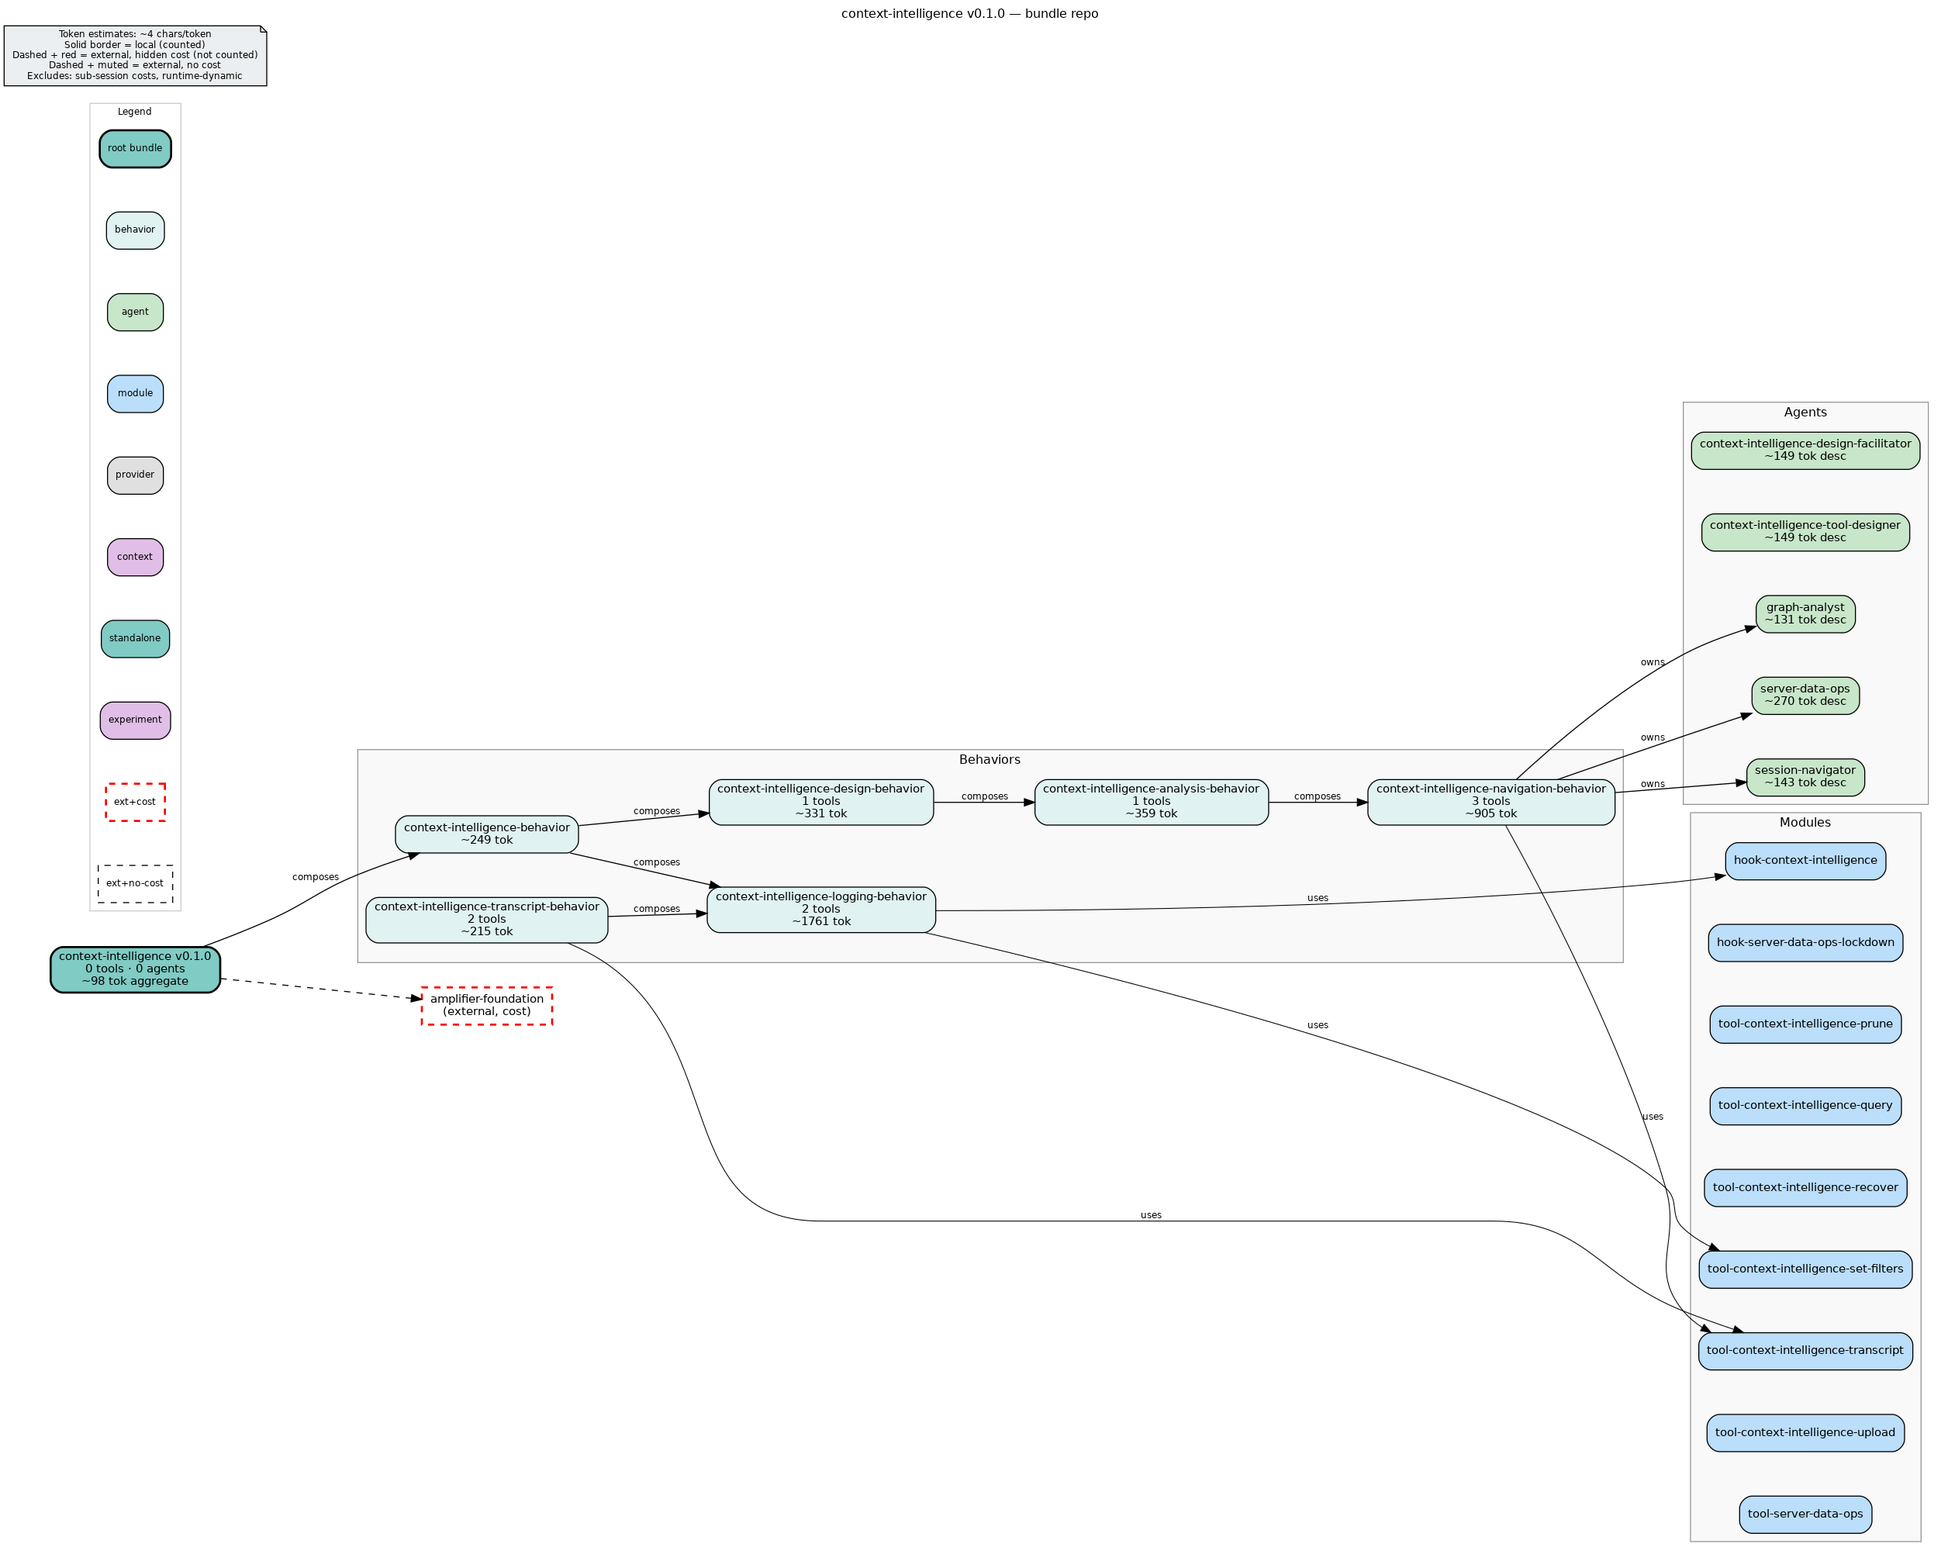
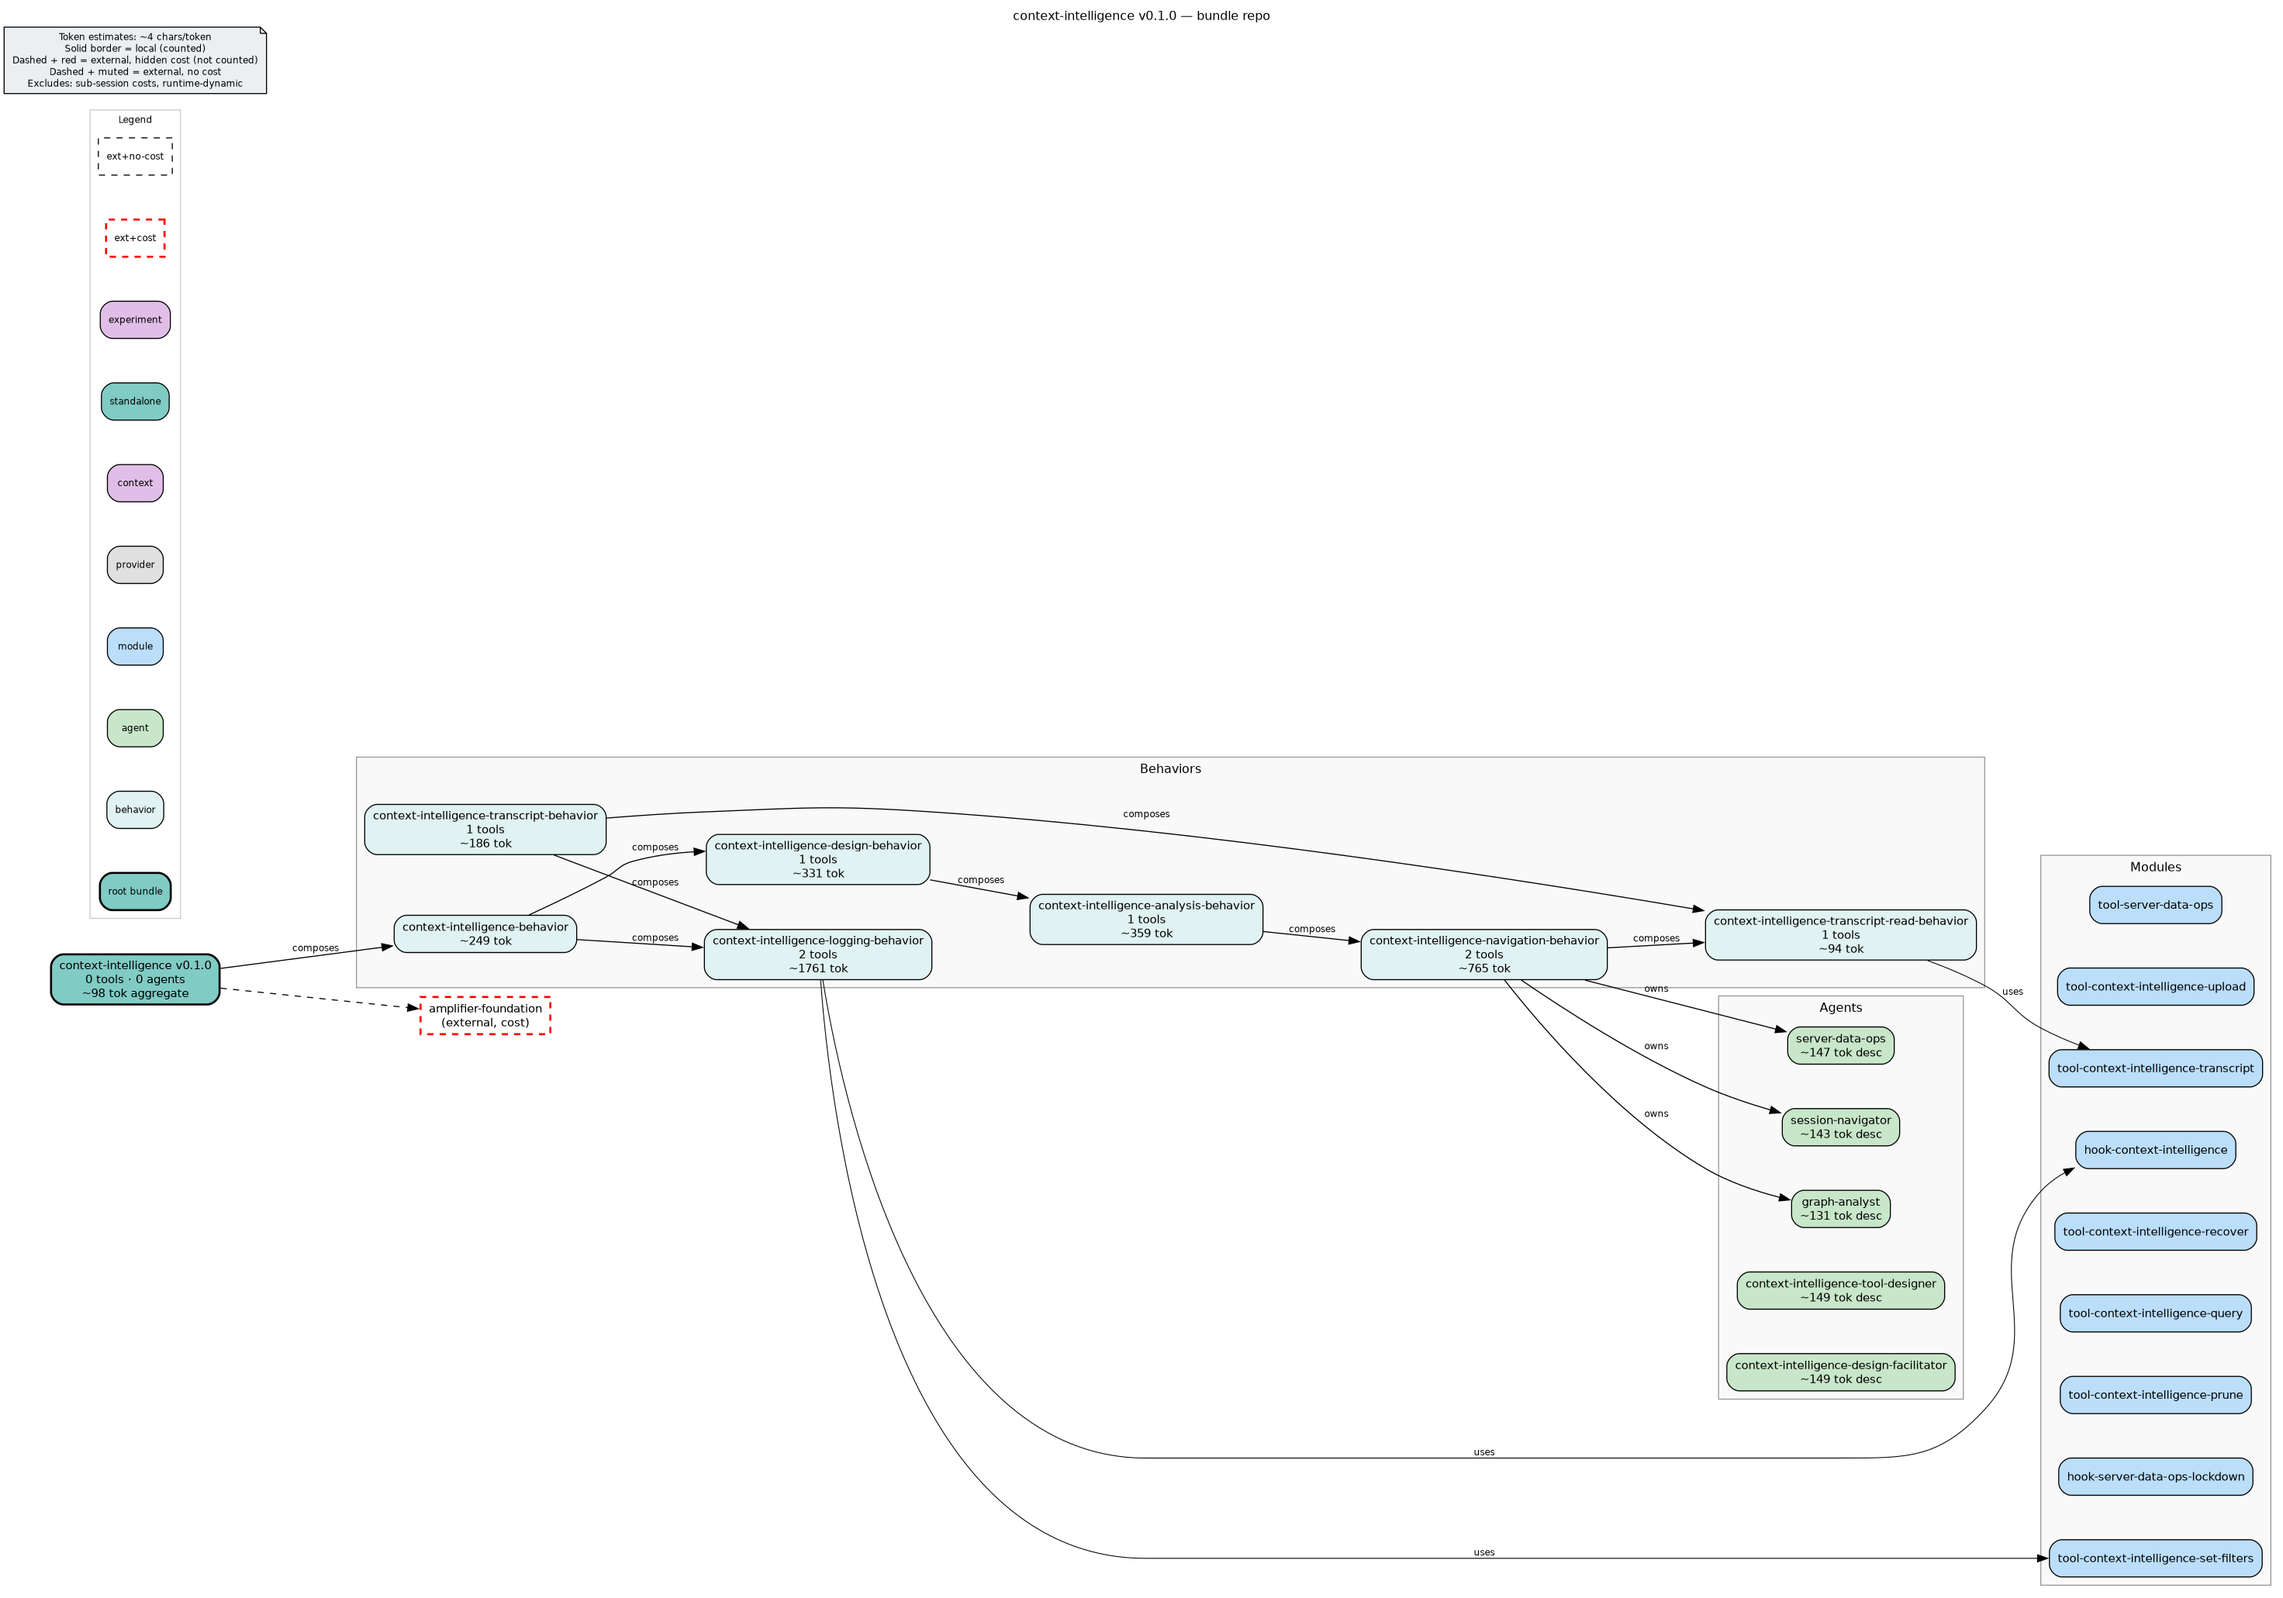
refactor(context): share transcript reader behavior
Give navigation and standalone transcript composition one capture-independent reader owner while preserving navigation tools and standalone logging. Clarify description triggers and head-budget guidance, refresh diagrams, and cover the composition with regression fixtures.

Published for review; full DTU/evaluation qualification remains incomplete.

Generated with Amplifier

Changed region(s): [[0.0, 0.0, 0.9972, 0.99], [0.4363, 0.0, 0.5609, 0.0309]]

diff --git a/tests/test_validate_full.py b/tests/test_validate_full.py
@@ -2,6 +2,7 @@
 
 from __future__ import annotations
 
+import hashlib
 import json
 import os
 import stat
@@ -10,6 +11,7 @@ import sys
 from pathlib import Path
 
 import pytest
+import yaml
 
 REPO_ROOT = Path(__file__).parent.parent
 SCRIPT_PATH = REPO_ROOT / "scripts" / "validate-full.sh"
@@ -384,6 +386,134 @@ def test_requires_unambiguous_recipe_before_any_install(tmp_path: Path, recipe_c
     assert not Path(environment["FAKE_UV_ARGS"]).exists()
     assert not Path(environment["FAKE_CLI_PATH"]).exists()
     assert not Path(environment["FAKE_HOST_CLI_SENTINEL"]).exists()
+
+
+def test_transcript_behavior_layout() -> None:
+    """Two consumers share a reader without moving root recall behind an agent."""
+    reader_path = REPO_ROOT / "behaviors/context-intelligence-transcript-read.yaml"
+    assert reader_path.is_file(), "The shared capture-independent reader must exist"
+    reader = yaml.safe_load(reader_path.read_text())
+    transcript_tool = {
+        "module": "tool-context-intelligence-transcript",
+        "source": (
+            "git+https://github.com/microsoft/amplifier-bundle-context-intelligence@main"
+            "#subdirectory=modules/tool-context-intelligence-transcript"
+        ),
+    }
+    assert reader == {
+        "bundle": {
+            "name": "context-intelligence-transcript-read-behavior",
+            "version": "0.1.0",
+            "description": (
+                "Bounded native transcript reader; capture and skill policy belong to consumers."
+            ),
+        },
+        "tools": [transcript_tool],
+    }
+    reader_include = {
+        "bundle": "context-intelligence:behaviors/context-intelligence-transcript-read"
+    }
+    navigation = yaml.safe_load(
+        (REPO_ROOT / "behaviors/context-intelligence-navigation.yaml").read_text()
+    )
+    standalone = yaml.safe_load(
+        (REPO_ROOT / "behaviors/context-intelligence-transcript.yaml").read_text()
+    )
+    skill_prefix = (
+        "git+https://github.com/microsoft/amplifier-bundle-context-intelligence@main"
+        "#subdirectory=skills/"
+    )
+    skills_tool = {
+        "module": "tool-skills",
+        "source": (
+            "git+https://github.com/microsoft/amplifier-bundle-skills@main"
+            "#subdirectory=modules/tool-skills"
+        ),
+        "config": {
+            "skills": [
+                skill_prefix + "context-intelligence-session-navigation",
+                skill_prefix + "transcript",
+            ]
+        },
+    }
+    assert navigation["includes"] == [reader_include]
+    assert navigation["tools"] == [
+        {
+            "module": "tool-delegate",
+            "source": (
+                "git+https://github.com/microsoft/amplifier-foundation@main"
+                "#subdirectory=modules/tool-delegate"
+            ),
+        },
+        skills_tool,
+    ]
+    assert navigation["agents"] == {
+        "include": [
+            "context-intelligence:graph-analyst",
+            "context-intelligence:session-navigator",
+            "context-intelligence:server-data-ops",
+        ]
+    }
+    assert set(navigation) == {"bundle", "includes", "agents", "tools"}
+    assert "Imports nothing" not in navigation["bundle"]["description"]
+    assert standalone["includes"] == [
+        {"bundle": "context-intelligence:behaviors/context-intelligence-logging"},
+        reader_include,
+    ]
+    assert standalone["tools"] == [
+        {**skills_tool, "config": {"skills": [skill_prefix + "transcript"]}}
+    ]
+    assert set(standalone) == {"bundle", "includes", "tools"}
+    navigator = yaml.safe_load(
+        (REPO_ROOT / "agents/session-navigator.md").read_text().split("---", 2)[1]
+    )
+    assert [t for t in navigator["tools"] if t["module"] == transcript_tool["module"]] == [
+        transcript_tool
+    ]
+
+
+def test_server_data_ops_description_fidelity() -> None:
+    """Short routing metadata retains all deletion scopes and safety decisions."""
+    agent_bytes = (REPO_ROOT / "agents/server-data-ops.md").read_bytes()
+    agent = yaml.safe_load(agent_bytes.decode().split("---", 2)[1])
+    description = agent["meta"]["description"]
+    assert len(description) <= 600
+    assert description == (
+        "MUST be used when a user wants to delete Context Intelligence session data from a server. "
+        "Drives find -> preview -> confirm -> delete; always previews before deletion and requires "
+        "explicit confirmation. Handles the current session, all sessions pushed from the current "
+        "working directory, sessions found by topic, date, workspace or server, and another owner's "
+        "sessions. Warns when the current user is not the owner and requires an additional explicit "
+        "confirmation. With multiple configured servers, asks which to use. "
+        "Use for delete, remove or clear requests, including folder-wide cleanup.\n"
+    )
+    assert len(description) == 591
+    for routing_fact in (
+        "MUST be used",
+        "find -> preview -> confirm -> delete",
+        "always previews before deletion",
+        "requires explicit confirmation",
+        "current session",
+        "all sessions pushed from the current working directory",
+        "topic, date, workspace or server",
+        "another owner's sessions",
+        "current user is not the owner",
+        "additional explicit confirmation",
+        "multiple configured servers, asks which to use",
+        "delete, remove or clear",
+        "folder-wide cleanup",
+    ):
+        assert routing_fact in description
+    prefix, marker, rest = agent_bytes.partition(
+        b"\nmeta:\n  name: server-data-ops\n  description:"
+    )
+    _, end_marker, suffix = rest.partition(b"\nmodel_role:")
+    assert marker and end_marker
+    # Baseline 672744d: every byte outside meta.description, including the safety
+    # body, lockdown hook, delegate exclusions, tool sources and model role.
+    assert hashlib.sha256(prefix + marker + end_marker + suffix).hexdigest() == (
[1 lines of base64/hex data omitted]
+    )
 
 
 @pytest.mark.parametrize("cached_recipe_count", [0, 2])

diff --git a/agents/server-data-ops.md b/agents/server-data-ops.md
@@ -5,16 +5,14 @@ bundle:
 
 meta:
   name: server-data-ops
-  description: |
-    MUST be used whenever a user wants to delete Context Intelligence session data from a server. Drives find -> preview -> confirm -> delete, always shows what would be removed before removing it, and warns plainly when a session was not created by the current user.
-
-    Handles four situations: deleting the current session's own data, cleaning up every session pushed from the current working directory, finding a session by description (topic, date, server) and then deleting it, and deleting a session someone else created (with an explicit ownership warning). Aware of multiple configured servers and will ask which one to use when more than one applies.
-
-    Use this agent when:
-    - The user asks to delete, remove, or clear their own session data from context-intelligence
-    - The user is worried that data from sessions in this working directory got pushed and wants it all found and removed
-    - The user describes a session by topic, date, or workspace and asks it to be removed
-    - The user wants to remove someone else's session data and understands they need to confirm that explicitly
+  description: >
+    MUST be used when a user wants to delete Context Intelligence session data from a server.
+    Drives find -> preview -> confirm -> delete; always previews before deletion and requires explicit confirmation.
+    Handles the current session, all sessions pushed from the current working directory,
+    sessions found by topic, date, workspace or server, and another owner's sessions.
+    Warns when the current user is not the owner and requires an additional explicit confirmation.
+    With multiple configured servers, asks which to use.
+    Use for delete, remove or clear requests, including folder-wide cleanup.
 
 model_role: [reasoning, general]
 

diff --git a/AGENTS.md b/AGENTS.md
@@ -161,6 +161,10 @@ This bundle ships **layered, composable behaviours** — `context-intelligence-n
 carries its own leading no-server guidance block — there is **no runtime skill fetching, syncing,
 or configuration knob**. See the README.
 
+Navigation and standalone transcript share the capture-independent `context-intelligence-transcript-read`
+behavior. Keep root navigation's delegate, skills and transcript tools; shared ownership does not
+reduce effective tool count or runtime schema cost. Standalone owns logging; navigation must not add it.
+
 Destructive retention uses `config.strict_global_recovery_state_root()`, not the
 forgiving settings readers. `prune.recovery.recovery_guard()` combines that
 authority with standard CLI state and explicit roots; `prune.operations.prune_file()`
